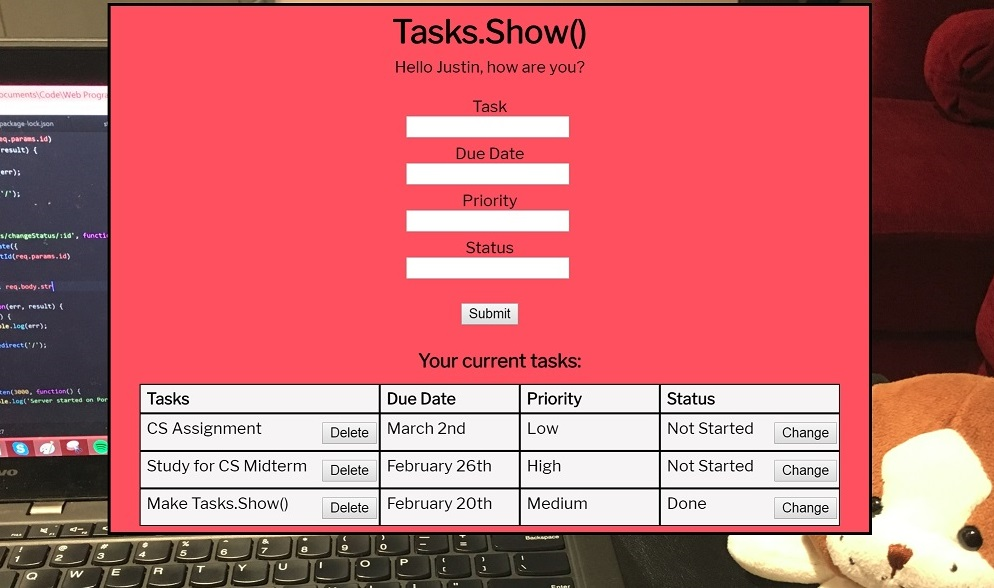
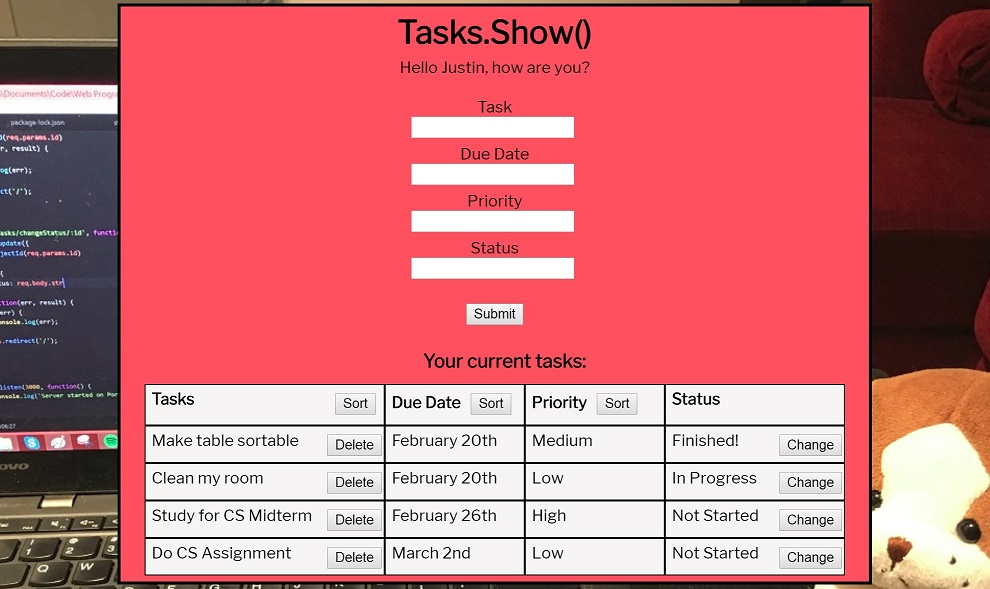
Updated the Tasks.Show() project

diff --git a/index.html b/index.html
@@ -63,8 +63,9 @@
       <div class="grid-item">
         <h3 class="project-subheader center">Tasks.Show()</h3>
         <img alt="tasks.show() webpage" class="project-photo" src="tasksshow.jpg" />
-        <p>For my first project using <span class="nodejs">Node.js</span>, decided to create a website to keep track of my ongoing <span class="important">to-do list</span>. Tasks are stored within a
-          <span class="mongodb">MongoDB database</span>, where they can be added, removed, and altered.</p>
+        <p>For my first project using <span class="nodejs">Node.js</span>, decided to create a <span class="important">website</span> to keep track of my ongoing <span class="important">to-do list</span>. Tasks are stored within a
+          <span class="mongodb">MongoDB database</span>, where they can be added, removed, and altered. The tasks can be <span class="important">sorted</span> alphabetically, by due date, or by priority by the sort buttons, and
+        clicking the sort button again will reverse the order.</p>
         <br>
         <div class="footer">
           <p>Created with: <span class="nodejs">Node.js</span>, <span class="expressjs">Express.js</span>, <span class="mongodb">MongoDB</span>, <span class="jquery">jQuery</span>,
